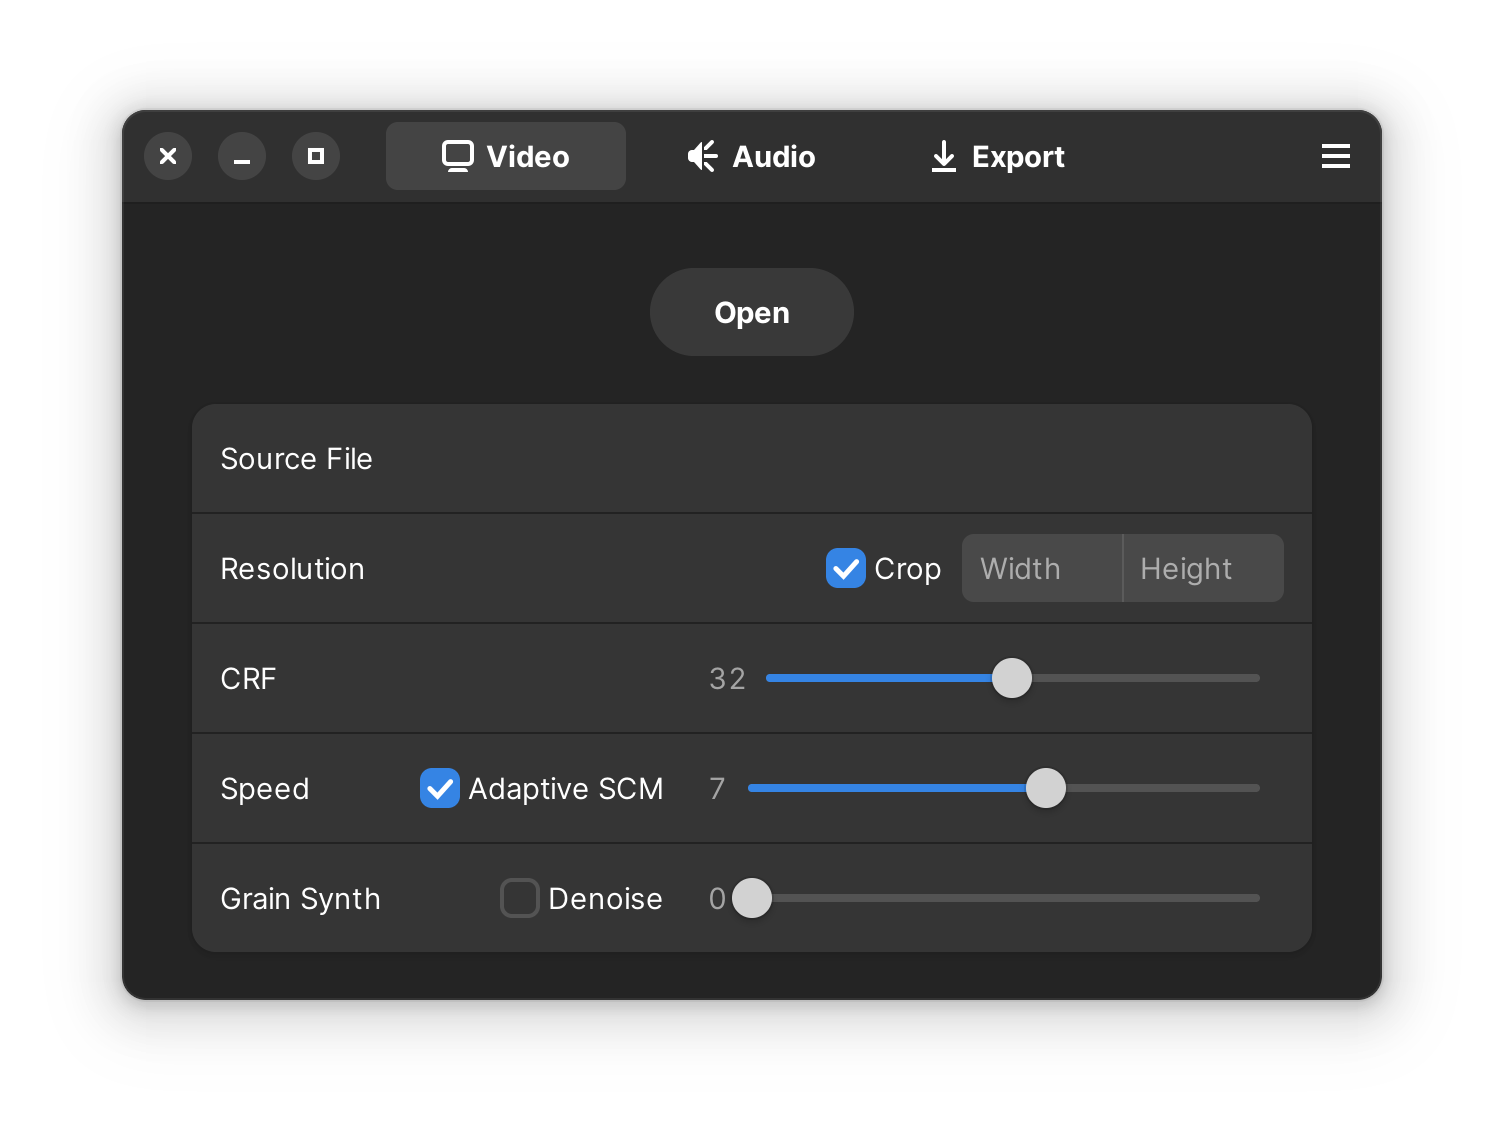
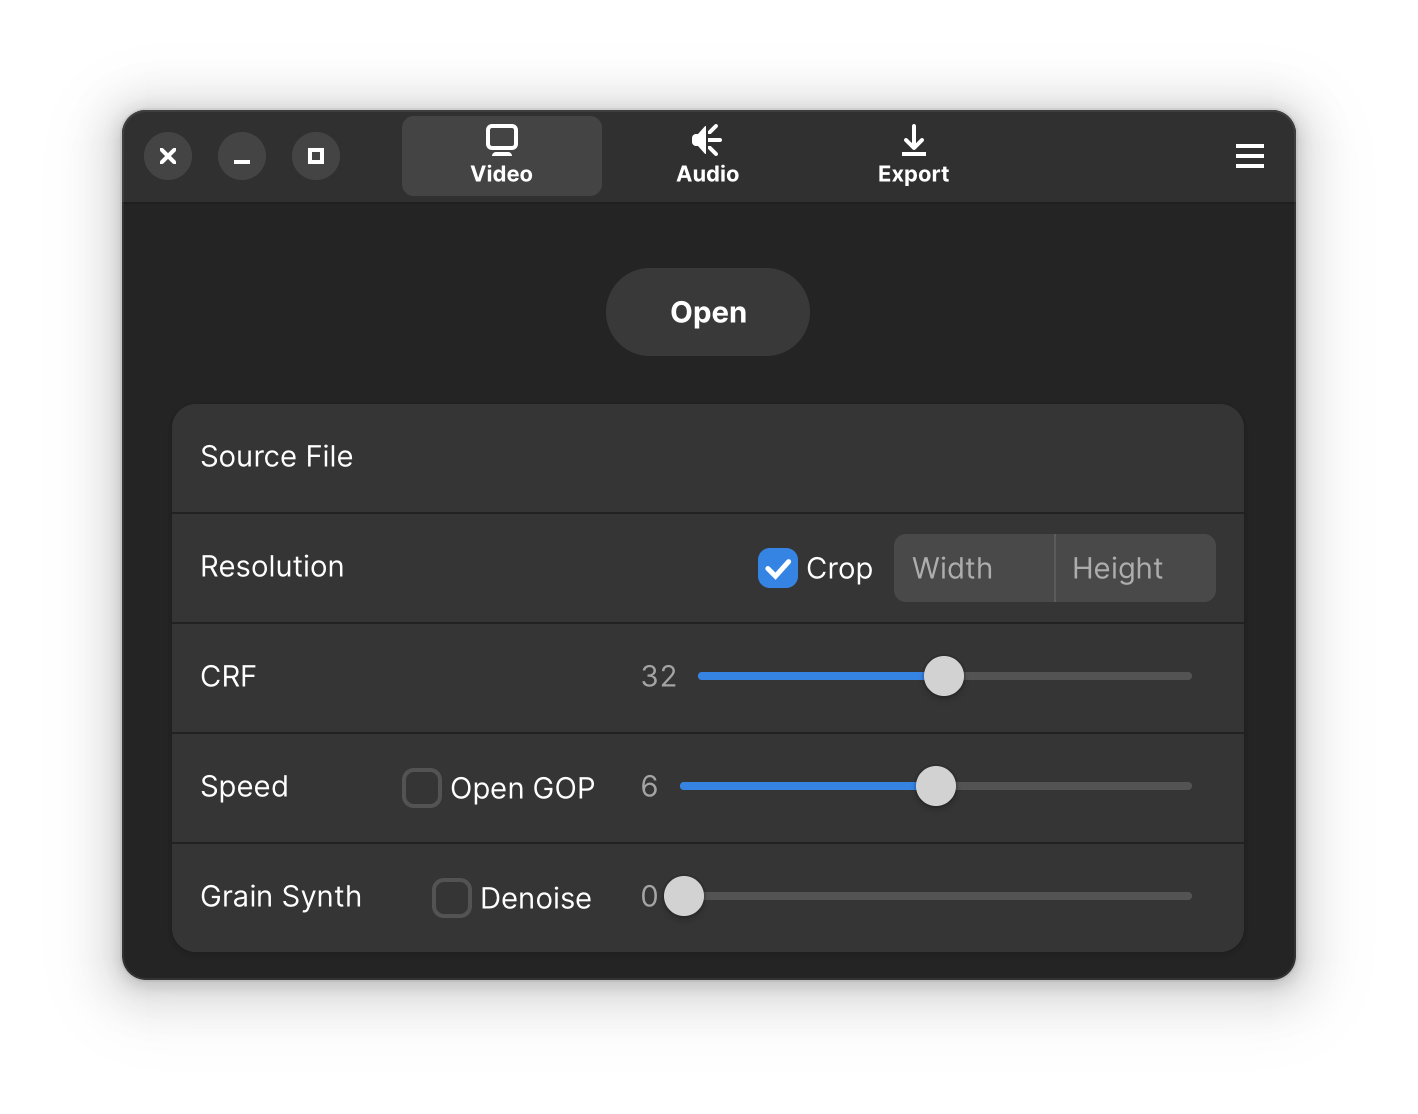
feat(0.5.0): Aviator 0.5.0
- Switch to SVT-AV1-PSY
- SVT-AV1-PSY introduces variance boost patch, improving fidelity by up to 5%
- FFmpeg updated to version 6.1
- SCM toggle replaced with more useful Open GOP toggle
- README reflects recent changes

diff --git a/src/__init__.py b/src/__init__.py
@@ -165,8 +165,7 @@ class MainWindow(Adw.Window):
     resolution_width_entry = Gtk.Template.Child()
     resolution_height_entry = Gtk.Template.Child()
     crop_toggle = Gtk.Template.Child()
-    scm_toggle = Gtk.Template.Child()
-    # gop_toggle = Gtk.Template.Child()
+    gop_toggle = Gtk.Template.Child()
     # scaling_method = Gtk.Template.Child()
     crf_scale = Gtk.Template.Child()
     speed_scale = Gtk.Template.Child()
@@ -202,7 +201,7 @@ class MainWindow(Adw.Window):
 
         # Reset value to remove extra decimal
         self.speed_scale.set_value(0)
-        self.speed_scale.set_value(7)
+        self.speed_scale.set_value(6)
         self.crf_scale.set_value(0)
         self.crf_scale.set_value(32)
         self.grain_scale.set_value(0)
@@ -364,17 +363,10 @@ class MainWindow(Adw.Window):
             else:
                 denoise_val = 0
 
-            if self.scm_toggle.get_active():
-                scm_val = 2
+            if self.gop_toggle.get_active():
+                gop_val = 1
             else:
-                scm_val = 1
-
-            # if self.gop_toggle.get_active():
-            #     gop_val = 1
-            # else:
-            #     gop_val = 2
-
-            gop_val = 2
+                gop_val = 2
 
             if self.audio_copy_switch.get_state():
                 audio_filters = "-y"
@@ -418,7 +410,7 @@ class MainWindow(Adw.Window):
                 "-crf", str(int(self.crf_scale.get_value())),
                 "-preset", str(int(self.speed_scale.get_value())),
                 "-pix_fmt", "yuv420p10le",
-                "-svtav1-params", f"film-grain={int(self.grain_scale.get_value())}:" + "input-depth=10:tune=2:enable-qm=1:keyint=300:scd=1:enable-overlays=1:aq-mode=2:" + f"scm={scm_val}:" + f"irefresh-type={gop_val}:" + f"film-grain-denoise={denoise_val}",
+                "-svtav1-params", f"film-grain={int(self.grain_scale.get_value())}:" + "input-depth=10:tune=2:enable-qm=1:qm-min=0:enable-tf=0:keyint=300:scd=1:aq-mode=2:" + f"irefresh-type={gop_val}:" + f"film-grain-denoise={denoise_val}",
                 "-map", "0:a?",
                 "-c:a", "copy" if self.audio_copy_switch.get_state() else "libopus",
                 "-b:a", self.bitrate_entry.get_text() + "K",
@@ -478,7 +470,7 @@ class App(Adw.Application):
                                 application_icon="net.natesales.Aviator",
                                 developer_name="Nate Sales & Gianni Rosato",
                                 version=info.version,
-                                copyright="Copyright © 2023 Nate Sales &amp; Gianni Rosato",
+                                copyright="Copyright © 2024 Nate Sales &amp; Gianni Rosato",
                                 license_type=Gtk.License.GPL_3_0,
                                 website="https://github.com/gianni-rosato/aviator",
                                 issue_url="https://github.com/gianni-rosato/aviator/issues")
@@ -488,17 +480,17 @@ class App(Adw.Application):
         about.add_acknowledgement_section(
             ("Special thanks to the encoding community!"),
             [
-                "AV1 For Dummies https://discord.gg/bbQD5MjDr3", "BlueSwordM's SVT-AV1 Fork https://github.com/BlueSwordM/SVT-AV1", "Codec Wiki https://wiki.x266.mov/"
+                "AV1 For Dummies https://discord.gg/bbQD5MjDr3", "SVT-AV1-PSY Fork https://github.com/gianni-rosato/svt-av1-psy", "Codec Wiki https://wiki.x266.mov/"
             ]    
         )
         about.add_legal_section(
             title='FFmpeg',
-            copyright='Copyright © 2023 FFmpeg',
+            copyright='Copyright © 2024 FFmpeg',
             license_type=Gtk.License.GPL_3_0,
         )
         about.add_legal_section(
             title='SVT-AV1',
-            copyright='Copyright © 2023 Alliance for Open Media',
+            copyright='Copyright © 2024 Alliance for Open Media',
             license_type=Gtk.License.BSD,
         )
         about.present()

diff --git a/setup.py b/setup.py
@@ -2,7 +2,7 @@ from setuptools import setup, find_packages
 
 setup(
     name='Aviator',
-    version='0.4.3',
+    version='0.5.0',
     description='AV1/OPUS Encoder GUI',
     author='Gianni Rosato',
     author_email='grosatowork@proton.me',

diff --git a/README.md b/README.md
@@ -1,7 +1,7 @@
 <div align="center">
 <h1>Aviator</h1>
 
-A Flatpak-first easy-to-use GUI for encoding with SVT-AV1 & libopus.
+A Flatpak-first easy-to-use GUI for encoding with SVT-AV1-PSY & libopus.
 
 <img src="assets/aviator_splash2.avif" alt="Splash" width=450/>
 <br>
@@ -16,7 +16,7 @@ A Flatpak-first easy-to-use GUI for encoding with SVT-AV1 & libopus.
 
 ## About
 
-Aviator enables simple & easy video encoding for the world's most advanced open video codec, AV1. Encode your favorite media into super efficient files with incredible quality per bit, powered by the fast SVT-AV1 encoder with libopus for audio encoding. The sky's the limit for your old home video collection, large 4k smartphone videos, screen recordings, Blu-ray rips, you name it - take off with Aviator!
+Aviator enables simple & easy video encoding for the world's most advanced open video codec, AV1. Encode your favorite media into super efficient files with incredible quality per bit, powered by our custom SVT-AV1-PSY encoder with libopus for audio encoding. The sky's the limit for your old home video collection, large 4k smartphone videos, screen recordings, Blu-ray rips, you name it - take off with Aviator!
 
 Aviator is designed to be a no frills, easy to use AV1 encoding GUI that any beginner can pick up and immediately understand how to use. 
 
@@ -30,10 +30,10 @@ Aviator is available on Flathub. You can learn how to set up Flatpak on your dis
 
 ### Building from Source
 
-Make sure you have all required dependencies before building from source. This includes `flatpak-builder`, `python3` & `gcc`
+Make sure you have all required dependencies before building from source. This includes `flatpak-builder`, `python3` & `gcc`.
 
 ```bash
-git clone https://github.com/natesales/aviator
+git clone https://github.com/gianni-rosato/aviator
 cd aviator
 make
 ```
@@ -42,9 +42,11 @@ Third party packaging formats are not officially supported by Aviator, and if yo
 
 ## Why AV1?
 
-AV1 aims to be more efficient than HEVC & VP9 by around 30%, and more efficient than H.264 by 50%. Traditionally, a lot of AV1 encoder implementations have been pretty slow compared to competing codecs' encoders, but the [SVT-AV1](https://gitlab.com/AOMediaCodec/SVT-AV1/) production encoder is scalable, fast, and feature rich. We decided to use SVT-AV1 in order to give users a fast AV1 encoder implementation that will scale well no matter what system you're using, & effectively take advantage of your system resources.
+[AV1](https://wiki.x266.mov/docs/video/AV1) aims to be royalty-free efficient alternative to older codecs like [H.265](https://wiki.x266.mov/docs/video/HEVC) and [H.264](https://wiki.x266.mov/docs/video/AVC).
 
-Aviator comes bundled with its own version of ffmpeg that is capable decoding videos to detect source information, upscaling & downscaling videos with a sharp scaling algorithm called Catmull-Rom, & encoding audio using the Opus audio codec via libopus.
+To encode AV1 video, we've traditionally used the mainline [SVT-AV1](https://wiki.x266.mov/docs/encoders/SVT-AV1) production encoder to power scalable, fast, and feature-rich encoding in Aviator. As of early 2024, we've opted to switch to [SVT-AV1-PSY](https://github.com/gianni-rosato/svt-av1-psy) in order to maintain more control over the encoder's development and optimize for visual fidelity as much as possible. SVT-AV1-PSY promises users a fast, perceptually optimized AV1 encoder implementation that is designed to effectively take advantage of system resources.
+
+Aviator comes bundled with its own version of FFmpeg that is capable decoding videos, upscaling & downscaling videos with the sharp Catmull-Rom scaling algorithm, & encoding audio using the Opus audio codec via libopus.
 
 ## Aviator's Defaults
 
@@ -54,17 +56,17 @@ Hovering over most user configurable options in Aviator will produce a helpful t
 
 <img src="assets/aviator_video.webp" alt="Aviator Video Settings" width=480/>
 
-By default, resolution will match your source's resolution. Manually changing one resolution value will automatically calculate the other based on the video's aspect ratio. Aviator's SVT-AV1 speed preset is set to 6 by default, with a CRF (Constant Rate Factor) level of 32. You can set CRF from 0 to 63 using the slider, with larger numerical values indicating smaller filesize at the expense of visual quality. You can look at the detailed specifications behind each speed preset [here](https://gitlab.com/AOMediaCodec/SVT-AV1/-/blob/master/Docs/CommonQuestions.md#what-presets-do). Speed 7 offers a good balance between speed & compression efficiency at any CRF level.
+By default, resolution will match your source's resolution. Manually changing one resolution value will automatically calculate the other based on the video's aspect ratio. Aviator's SVT-AV1-PSY speed preset is set to 6 by default, with a CRF (Constant Rate Factor) of 32. You can set CRF from 0 to 63 using the slider, with larger numerical values indicating smaller filesize at the expense of visual fidelity. Preset 6 offers a good balance between speed & compression efficiency at any CRF level.
 
-The Grain Synth slider allows you to add artificial grain to your video to mimic its natural grain, which applies the artificial grain at decode time as a filter which makes it easier to encode grainy videos at high fidelity. The Denoise switch removes noise from the video before applying artificial grain.
+The Grain Synth slider allows you to add artificial grain to your video to mimic natural grain. Grain Synth applies the artificial grain at decode time as a filter, which makes it easier to encode grainy videos at high fidelity. The Denoise switch removes noise from the video before applying artificial grain.
 
 ### Audio
 
 <img src="assets/aviator_audio.webp" alt="Aviator Audio Settings" width=480/>
 
-Audio is reencoded even if the bitrate is set to be the same as the source audio. Audio is encoded to Opus, which is a highly efficient free audio codec that is often more efficient than competitors like AAC & MP3 audio. Because of Opus's incredible efficiency, audio tracks will be encoded at 80kb/s by default. Opus reaches audio transparency at around 128kb/s.
+Audio is reencoded even if the bitrate is set to be the same as the source audio. Audio is encoded to Opus, which is a highly efficient free audio codec that is often more better than older competitors like [AAC](https://wiki.x266.mov/docs/audio/AAC) & [MP3](https://wiki.x266.mov/docs/audio/MP3) audio. Because of Opus's incredible efficiency, audio tracks will be encoded at 80kb/s by default. Opus reaches audio transparency at around 128kb/s, which means the compressed audio will likely be impossible to distinguish from the source.
 
-The Downmix to Stereo switch is for audio tracks with more than two channels, like 5.1 Surround or 7.1 Surround. These channels will be downmixed to a stereo output with two channels. If the input track is stereo, it isn't mixed any differently even if this option is enabled.
+The Downmix to Stereo switch is for audio tracks with more than two channels, like 5.1 Surround or 7.1 Surround. These channels will be downmixed to a stereo output with two channels. If the input track is stereo, it isn't mixed any differently even if this option is enabled. If you know your audio is 5.1(side), you should enable this option or use Copy Audio as libopus within FFmpeg cannot handle 5.1(side)-mapped audio streams.
 
 The Copy Audio switch disables WebM output due to potential compatibility hiccups & overrides every option on the Audio page in order to keep the source audio untouched. This option, when enabled, ensures the source audio isn't reencoded.
 
@@ -74,7 +76,7 @@ The Volume slider allows you to increase or decrease the output's volume. It is 
 
 <img src="assets/aviator_output.webp" alt="Aviator Output UI" width=480/>
 
-The container your video is stored in is associated with the file extension. Aviator offers two options for video output: the Matroska video container & the WebM container. The open-source Matroska container (.MKV) is Aviator's default container, a universal multimedia container with widespread video &amp; audio support. WebM is designed for web compatibility &amp; strips subtitles by default because of this. Both work out of the box with Aviator's AV1 video & Opus audio, but WebM output will be disabled if the Copy Audio switch is enabled because then we lose this format compliance assurance.
+The container your video is stored in is associated with the file extension. Aviator offers two options for video output: the [Matroska](https://wiki.x266.mov/docs/introduction/terminology#mkv--mka--mks--mk3d) video container & the [WebM](https://wiki.x266.mov/docs/introduction/terminology#webm) container. The open-source Matroska container (.MKV) is Aviator's default container, a universal multimedia container with widespread video &amp; audio support. WebM is designed for web compatibility &amp; strips subtitles by default because of this. Both work out of the box with Aviator's AV1 video & Opus audio, but WebM output will be disabled if the Copy Audio switch is enabled because then we lose this format compliance assurance.
 
 ## Roadmap & Limitations
 
